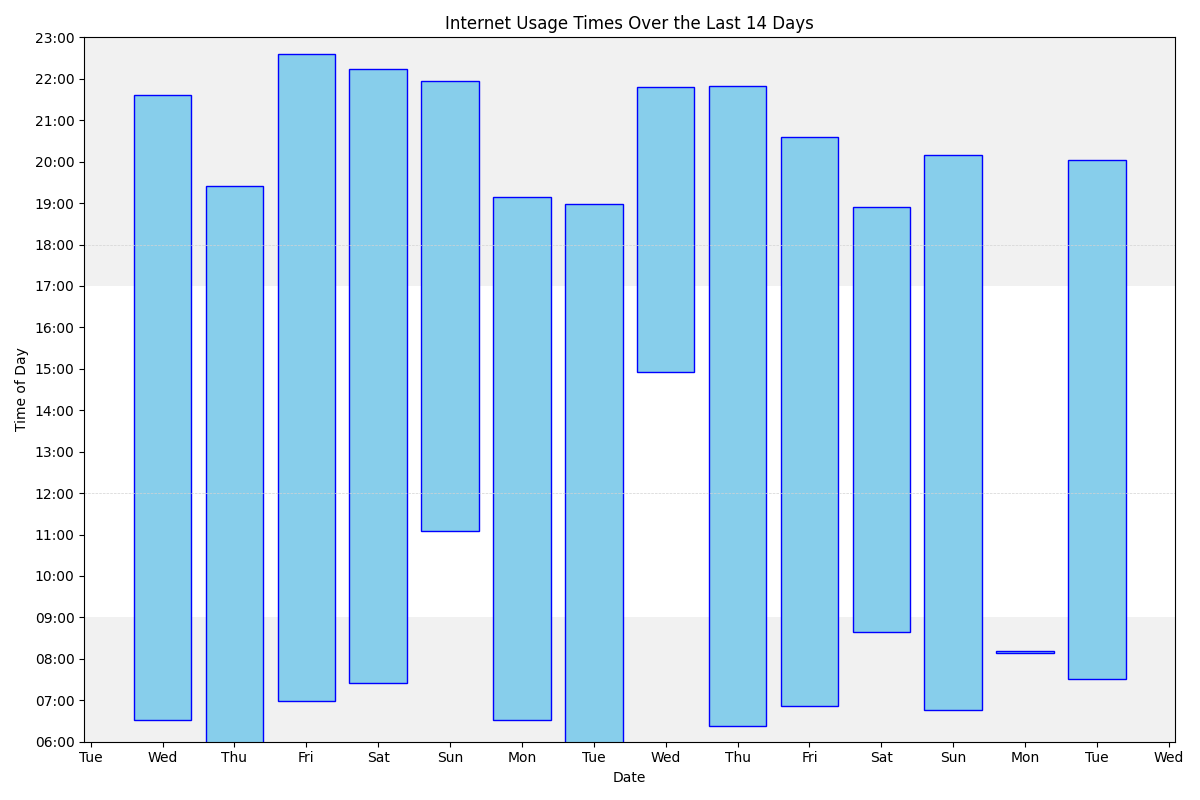
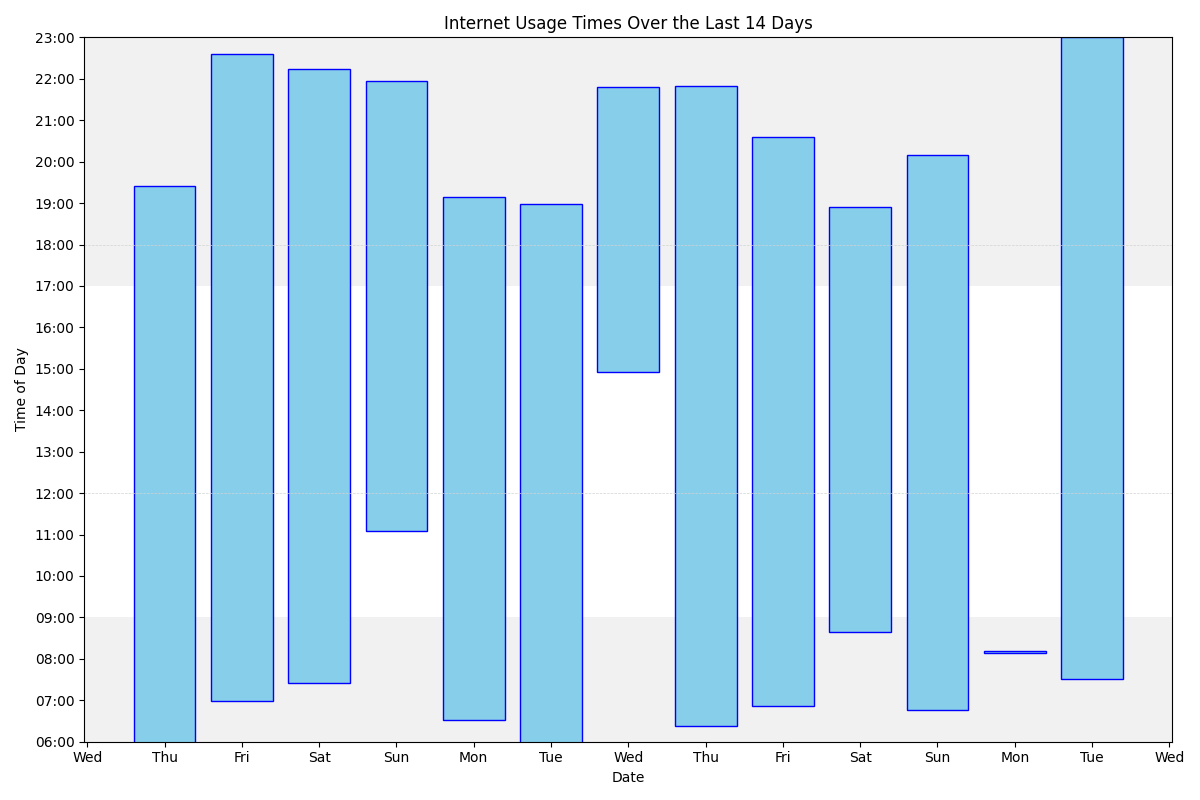
Update

diff --git a/index.md b/index.md
@@ -68,7 +68,7 @@ ul>li::after {
 <h3> Most common sites</h3>
 With number of accesses/minutes in parentheses
 
-<ol><li>www.google.com (1846)</li>
+<ol><li>www.google.com (1850)</li>
 <li>outlook.office365.com (1024)</li>
 <li>bsky.app (883)</li>
 <li>mail.google.com (874)</li>
@@ -95,7 +95,7 @@ With number of accesses/minutes in parentheses
 <li>www.tesco.com (87)</li>
 <li>gitlab.cim.rhul.ac.uk (85)</li>
 <li>rhul.sharepoint.com (83)</li>
-<li>tvtropes.org (74)</li>
+<li>tvtropes.org (81)</li>
 <li>www.instagram.com (73)</li>
 <li>whitewaterwriters.com (73)</li>
 
@@ -105,6 +105,26 @@ With number of accesses/minutes in parentheses
 <ul></ul>
 
 <H3>Tuesday, 21/01/25</H3>
+
+<br>
+
+<ul><li> 23:00 tvtropes.org</li>
+<li class='same'> 22:59 tvtropes.org</li>
+<li class='same'> 22:57 tvtropes.org</li>
+<li class='same'> 22:56 tvtropes.org</li>
+<li class='same'> 22:44 tvtropes.org</li>
+<li class='same'> 22:41 tvtropes.org</li>
+<li> 22:41 www.google.com</li>
+<li class='same'> 22:39 www.google.com</li>
+</ul>
+
+<br>
+
+<ul><li class='same'> 21:32 www.google.com</li>
+<li> 21:32 www.cladcodecking.co.uk</li>
+<li> 21:31 www.google.com</li>
+<li> 21:31 www.bookdeal.com</li>
+</ul>
 
 <br>
 
@@ -17089,7 +17109,8 @@ With number of accesses/minutes in parentheses
 
 <br>
 
-<ul><li> 19:26 tvtropes.org</li>
+<ul><li> 19:30 tvtropes.org</li>
+<li class='same'> 19:26 tvtropes.org</li>
 </ul>
 
 <br>
